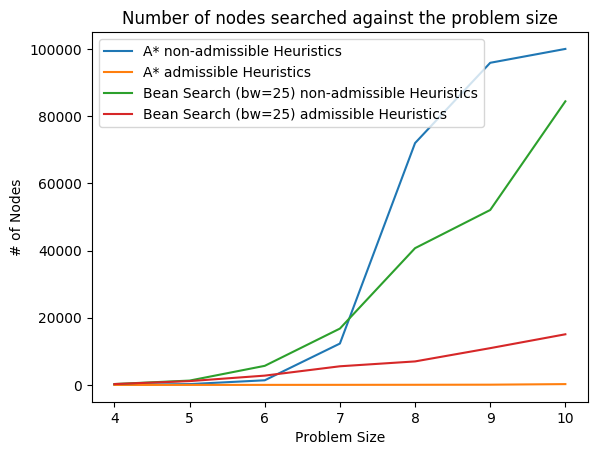
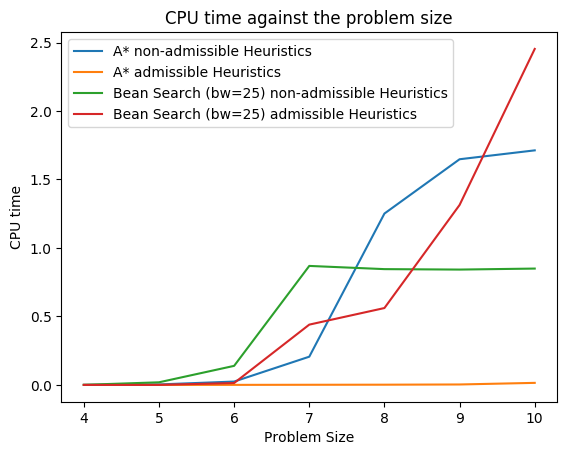
modify cpu plots

diff --git a/analysis.py b/analysis.py
@@ -32,8 +32,8 @@ def plotResult(cpuTimes, steps, pathes):
     t0 = getArray(steps, 0, beamSize)       #   For A* that beam width = inf, averaged number
     t1 = getArray(steps, 1, beamSize)       #
 
-    t2 = getArray(steps, 0, 0)  # For A* that beam width = inf
-    t3 = getArray(steps, 1, 0)  #
+    t2 = getArray(steps, 0, 6)  # For A* that beam width = inf
+    t3 = getArray(steps, 1, 6)  #
     print(t0, t1, t2, t3)
 
     fig1 = plt.gcf()
@@ -55,10 +55,11 @@ def plotResult(cpuTimes, steps, pathes):
     t0 = getArray(cpuTimes, 0, beamSize)  # For A* that beam width = inf
     t1 = getArray(cpuTimes, 1, beamSize)  #
 
-    t2 = getArray(cpuTimes, 0, 4)  # For A* that beam width = inf
-    t3 = getArray(cpuTimes, 1, 4)  #
+    t2 = getArray(cpuTimes, 0, 6)  # For A* that beam width = inf
+    t3 = getArray(cpuTimes, 1, 6)  #
     # print(t1)
     print(t0, t1, t2, t3)
+    fig1 = plt.gcf()
     plt.plot(sizeNums, t0, label="A* non-admissible Heuristics")
     plt.plot(sizeNums, t1, label="A* admissible Heuristics")
 
